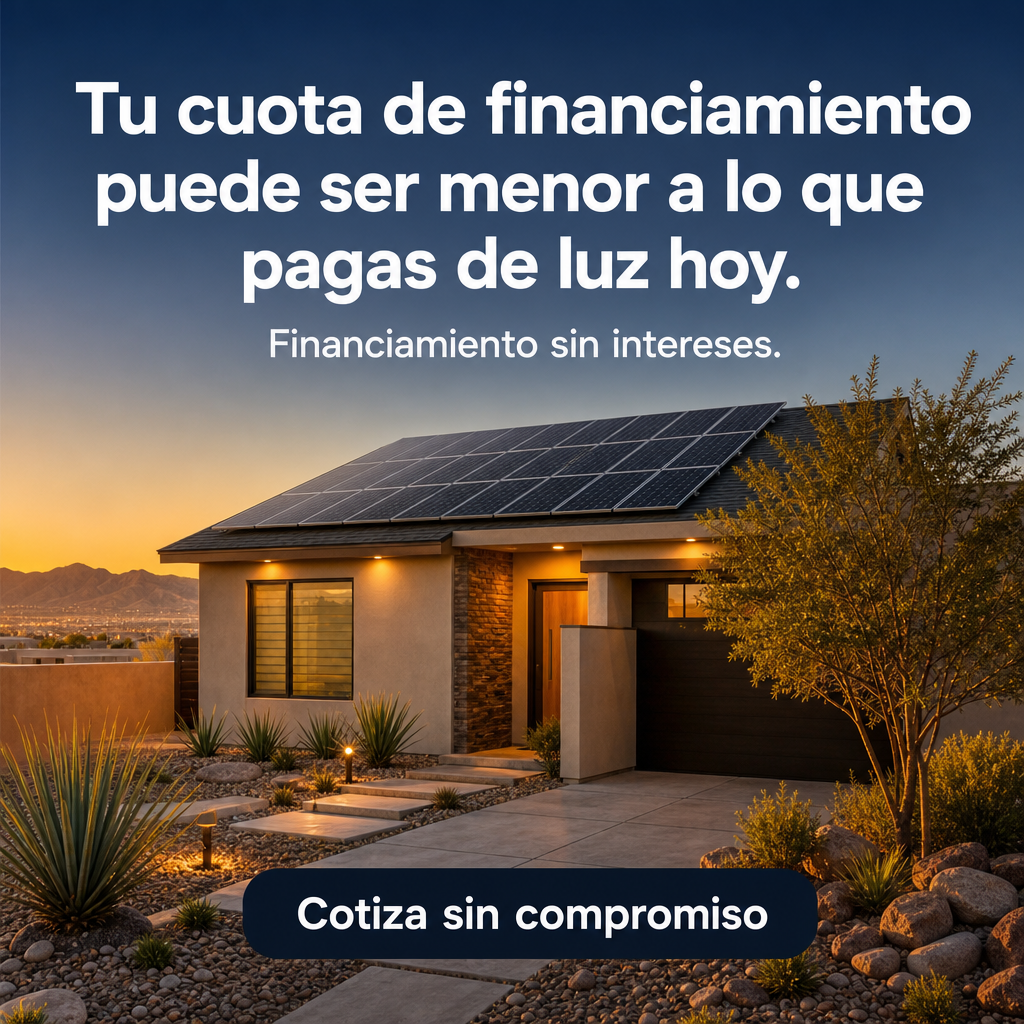
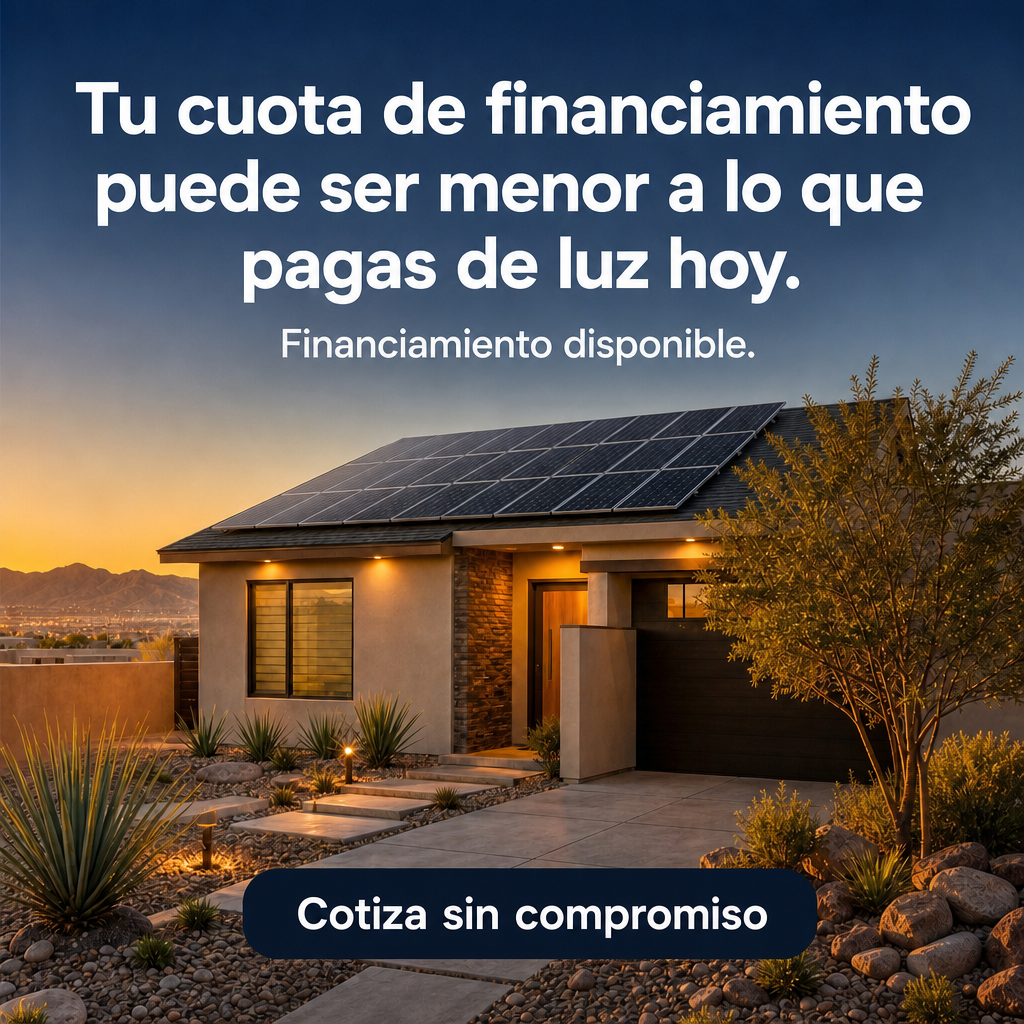
Corregir Anuncio 5: quitar 'financiamiento sin intereses' (copy + imagen)

diff --git a/fb-ads/COPY-ANUNCIOS.md b/fb-ads/COPY-ANUNCIOS.md
@@ -72,18 +72,18 @@ Con un sistema SolFuturo generas tu propia electricidad y reduces hasta 95% tu r
 
 ---
 
-## META-05 — Financiamiento sin intereses
+## META-05 — Financiamiento
 **Imagen:** `05_meta05_financiamiento.png`
 
 **Texto principal:**
-¿Crees que el solar es caro? Con financiamiento SIN intereses, tu cuota mensual suele ser MENOR de lo que hoy pagas de luz 💰.
+¿Crees que el solar es caro? Con financiamiento, tu cuota mensual suele ser MENOR de lo que hoy pagas de luz 💰.
 
 Es decir: dejas de regalar tu dinero a CFE y lo conviertes en una inversión que se queda en tu propiedad.
 
 📲 Te explicamos las opciones sin compromiso: 656 695 3960 o WhatsApp.
 
 **Título:** Tu cuota menor a lo que pagas de luz hoy
-**Descripción:** Financiamiento sin intereses disponible.
+**Descripción:** Financiamiento disponible.
 **CTA:** Enviar mensaje · Enviar mensaje de WhatsApp
 
 ---
@@ -124,7 +124,7 @@ Reduce el gasto fijo más pesado y conviértelo en ventaja competitiva con una e
 **Imagen:** `08_meta08_garantia.png`
 
 **Texto principal:**
-Paneles Tier 1 con garantía de hasta 25 años, instalación con garantía de por vida y monitoreo 24/7 🔒.
+Paneles Tier 1 con garantía de hasta 25 años y monitoreo 24/7 🔒.
 
 En SolFuturo no solo te instalamos: te acompañamos desde el análisis de tu recibo hasta que CFE valida tu medidor bidireccional. Soporte local continuo, aquí en Juárez.
 
